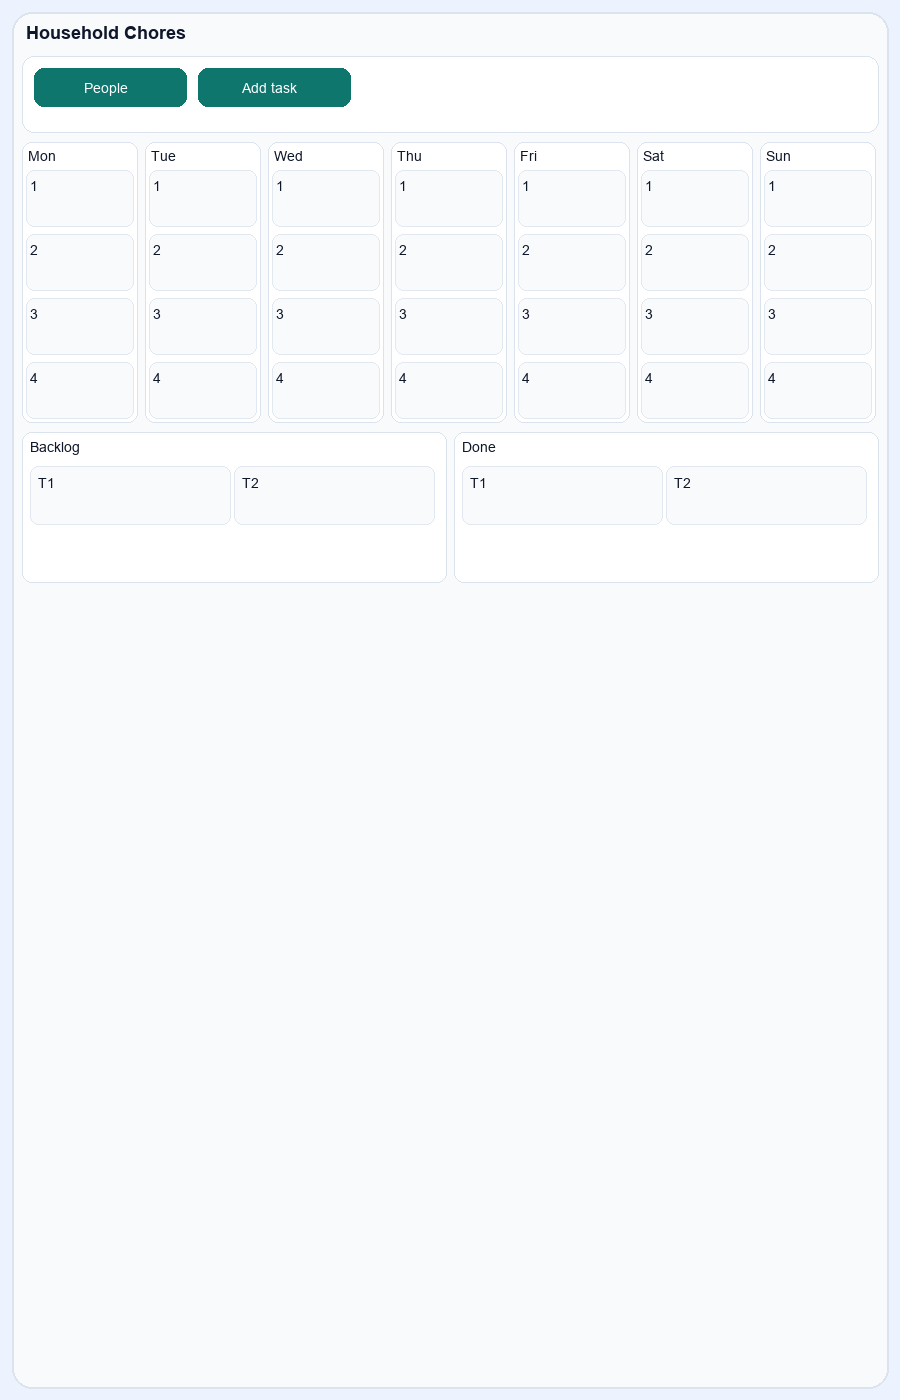
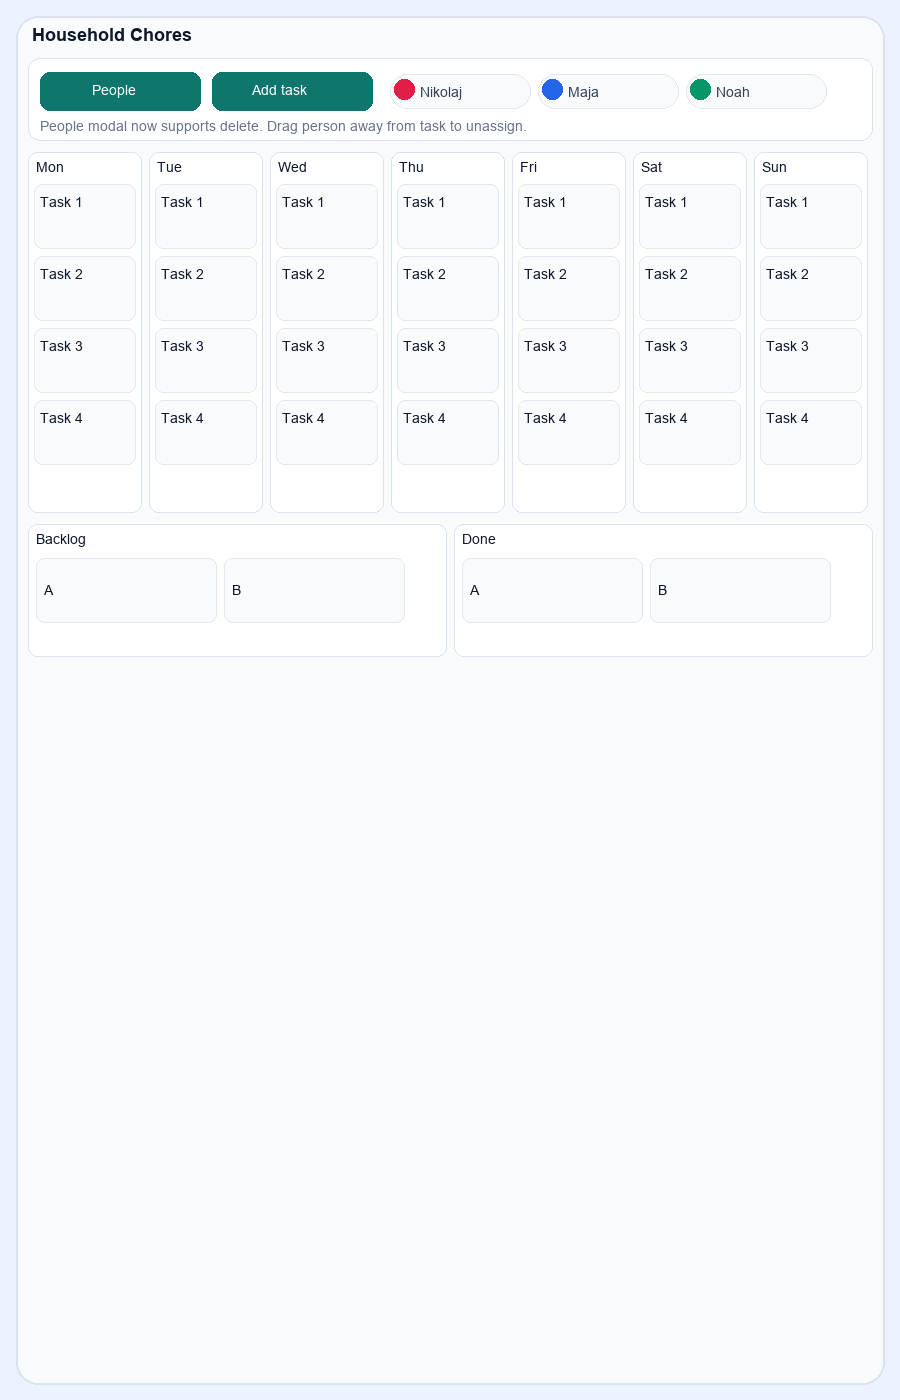
Show full people names and add person delete/unassign drag behavior

diff --git a/custom_components/household_chores/frontend/household-chores-card.js b/custom_components/household_chores/frontend/household-chores-card.js
@@ -388,6 +388,20 @@ class HouseholdChoresCard extends HTMLElement {
     await this._saveBoard();
   }
 
+  async _onDeletePerson(personId) {
+    this._board.people = this._board.people.filter((person) => person.id !== personId);
+    this._board.tasks = this._board.tasks.map((task) => ({
+      ...task,
+      assignees: task.assignees.filter((id) => id !== personId),
+    }));
+    this._board.templates = this._board.templates.map((tpl) => ({
+      ...tpl,
+      assignees: tpl.assignees.filter((id) => id !== personId),
+    }));
+    this._render();
+    await this._saveBoard();
+  }
+
   _onTaskFieldInput(field, value) {
     this._taskForm = { ...this._taskForm, [field]: value };
   }
@@ -603,9 +617,45 @@ class HouseholdChoresCard extends HTMLElement {
       .filter(Boolean)
       .map(
         (person) =>
-          `<span class="chip" draggable="true" data-person-id="${person.id}" style="background:${person.color}" title="${this._escape(person.name)}">${this._personInitial(person.name)}</span>`
+          `<span class="chip" draggable="true" data-person-id="${person.id}" data-source-task-id="${task.id}" style="background:${person.color}" title="${this._escape(person.name)}">${this._personInitial(person.name)}</span>`
       )
       .join("");
+  }
+
+  _removeAssigneeFromTask(taskId, personId) {
+    const sourceTask = this._board.tasks.find((task) => task.id === taskId);
+    if (!sourceTask) return;
+
+    if (sourceTask.template_id) {
+      const tpl = this._board.templates.find((item) => item.id === sourceTask.template_id);
+      if (tpl) tpl.assignees = tpl.assignees.filter((id) => id !== personId);
+      this._board.tasks.forEach((task) => {
+        if (task.template_id === sourceTask.template_id) {
+          task.assignees = task.assignees.filter((id) => id !== personId);
+        }
+      });
+      return;
+    }
+
+    sourceTask.assignees = sourceTask.assignees.filter((id) => id !== personId);
+  }
+
+  _assignAssigneeToTask(taskId, personId) {
+    const targetTask = this._board.tasks.find((task) => task.id === taskId);
+    if (!targetTask) return;
+
+    if (targetTask.template_id) {
+      const tpl = this._board.templates.find((item) => item.id === targetTask.template_id);
+      if (tpl && !tpl.assignees.includes(personId)) tpl.assignees.push(personId);
+      this._board.tasks.forEach((task) => {
+        if (task.template_id === targetTask.template_id && !task.assignees.includes(personId)) {
+          task.assignees.push(personId);
+        }
+      });
+      return;
+    }
+
+    if (!targetTask.assignees.includes(personId)) targetTask.assignees.push(personId);
   }
 
   _taskMetaLine(task) {
@@ -645,7 +695,11 @@ class HouseholdChoresCard extends HTMLElement {
         ${this._board.people
           .map(
             (person) =>
-              `<div class="legend-item"><span class="chip" draggable="true" data-person-id="${person.id}" style="background:${person.color}">${this._personInitial(person.name)}</span><span class="legend-name">${this._escape(person.name)}</span></div>`
+              `<div class="legend-item">
+                <span class="chip" draggable="true" data-person-id="${person.id}" style="background:${person.color}">${this._personInitial(person.name)}</span>
+                <span class="legend-name">${this._escape(person.name)}</span>
+                <button type="button" class="person-delete" data-delete-person-id="${person.id}" title="Delete person">Delete</button>
+              </div>`
           )
           .join("")}
       </div>
@@ -733,6 +787,8 @@ class HouseholdChoresCard extends HTMLElement {
         .actions{display:grid;grid-template-columns:1fr 1fr;gap:8px}
         .action-btn{font:inherit;border-radius:10px;border:1px solid transparent;padding:10px;background:var(--hc-accent);color:#fff;font-weight:700;cursor:pointer}
         .legend-inline{margin-top:8px;display:flex;gap:6px;flex-wrap:wrap}
+        .person-pill{display:flex;align-items:center;gap:6px;background:#f8fafc;border:1px solid #e2e8f0;border-radius:999px;padding:3px 8px 3px 4px;font-size:.78rem;color:#334155}
+        .person-delete{margin-left:auto;background:#fee2e2;color:#991b1b;border:1px solid #fecaca;border-radius:8px;padding:4px 8px;font-size:.72rem;cursor:pointer}
         .chip{width:22px;height:22px;border-radius:999px;color:#fff;font-weight:700;font-size:.75rem;display:inline-flex;align-items:center;justify-content:center;box-shadow:inset 0 -1px 0 rgba(0,0,0,.2)}
         .small{font-size:.8rem;color:var(--hc-muted);margin-top:6px}
         .columns-wrap{display:grid;gap:10px}
@@ -810,7 +866,7 @@ class HouseholdChoresCard extends HTMLElement {
               <button class="action-btn" type="button" id="open-task">Add task</button>
             </div>
             <div class="legend-inline">
-              ${this._board.people.slice(0, 12).map((person) => `<span class="chip" draggable="true" data-person-id="${person.id}" style="background:${person.color}" title="${this._escape(person.name)}">${this._personInitial(person.name)}</span>`).join("")}
+              ${this._board.people.slice(0, 12).map((person) => `<span class="person-pill"><span class="chip" draggable="true" data-person-id="${person.id}" style="background:${person.color}" title="${this._escape(person.name)}">${this._personInitial(person.name)}</span><span>${this._escape(person.name)}</span></span>`).join("")}
             </div>
           </div>
 
@@ -839,6 +895,7 @@ class HouseholdChoresCard extends HTMLElement {
     const taskEndDateInput = this.shadowRoot.querySelector("#task-end-date");
     const taskFixedInput = this.shadowRoot.querySelector("#task-fixed");
     const deleteTaskBtn = this.shadowRoot.querySelector("#delete-task");
+    const deletePersonButtons = this.shadowRoot.querySelectorAll("[data-delete-person-id]");
 
     if (openPeopleBtn) openPeopleBtn.addEventListener("click", () => this._openPeopleModal());
     if (openTaskBtn) openTaskBtn.addEventListener("click", () => this._openAddTaskModal());
@@ -862,6 +919,9 @@ class HouseholdChoresCard extends HTMLElement {
       });
     }
     if (deleteTaskBtn) deleteTaskBtn.addEventListener("click", () => this._onDeleteTask());
+    deletePersonButtons.forEach((btn) => {
+      btn.addEventListener("click", () => this._onDeletePerson(btn.dataset.deletePersonId));
+    });
 
     this.shadowRoot.querySelectorAll(".weekday-dot").forEach((dot) => {
       dot.addEventListener("click", () => this._toggleTaskWeekday(dot.dataset.weekday));
@@ -873,8 +933,13 @@ class HouseholdChoresCard extends HTMLElement {
 
     this.shadowRoot.querySelectorAll("[data-person-id]").forEach((el) => {
       el.addEventListener("dragstart", (ev) => {
-        ev.dataTransfer.effectAllowed = "copy";
+        const sourceTaskId = el.dataset.sourceTaskId || "";
+        ev.dataTransfer.effectAllowed = sourceTaskId ? "move" : "copy";
         ev.dataTransfer.setData("text/person", el.dataset.personId);
+        if (sourceTaskId) {
+          ev.dataTransfer.setData("text/person-assignment", el.dataset.personId);
+          ev.dataTransfer.setData("text/source-task", sourceTaskId);
+        }
       });
     });
 
@@ -901,20 +966,14 @@ class HouseholdChoresCard extends HTMLElement {
       });
 
       taskEl.addEventListener("drop", async (ev) => {
-        const personId = ev.dataTransfer.getData("text/person");
+        const personId = ev.dataTransfer.getData("text/person-assignment") || ev.dataTransfer.getData("text/person");
+        const sourceTaskId = ev.dataTransfer.getData("text/source-task");
         if (!personId) return;
         ev.preventDefault();
-        const task = this._board.tasks.find((t) => t.id === taskId);
-        if (!task) return;
-        if (!task.assignees.includes(personId)) task.assignees.push(personId);
-
-        if (task.template_id) {
-          const tpl = this._board.templates.find((x) => x.id === task.template_id);
-          if (tpl && !tpl.assignees.includes(personId)) tpl.assignees.push(personId);
-          this._board.tasks.forEach((t) => {
-            if (t.template_id === task.template_id && !t.assignees.includes(personId)) t.assignees.push(personId);
-          });
+        if (sourceTaskId && sourceTaskId !== taskId) {
+          this._removeAssigneeFromTask(sourceTaskId, personId);
         }
+        this._assignAssigneeToTask(taskId, personId);
 
         this._render();
         await this._saveBoard();
@@ -935,6 +994,15 @@ class HouseholdChoresCard extends HTMLElement {
       columnEl.addEventListener("drop", async (ev) => {
         columnEl.classList.remove("drag-over");
         const taskId = ev.dataTransfer.getData("text/task");
+        const personId = ev.dataTransfer.getData("text/person-assignment");
+        const sourceTaskId = ev.dataTransfer.getData("text/source-task");
+        if (personId && sourceTaskId) {
+          ev.preventDefault();
+          this._removeAssigneeFromTask(sourceTaskId, personId);
+          this._render();
+          await this._saveBoard();
+          return;
+        }
         if (!taskId) return;
         ev.preventDefault();
 

diff --git a/README.md b/README.md
@@ -15,6 +15,9 @@ Household Chores is a HACS-installable custom integration for a weekly household
 - Click any task to edit title/assignees/day/end date in modal
 - Delete task directly from the edit modal
 - Drag people badges directly onto tasks to assign quickly
+- Full person names are shown in the top People row
+- People modal supports deleting a person (also removes them from task/template assignees)
+- Dragging a person chip from a task to empty lane area removes that person from that task
 - Optional fixed recurring tasks with:
   - end date
   - weekday selection (`M T W T F S S`)
